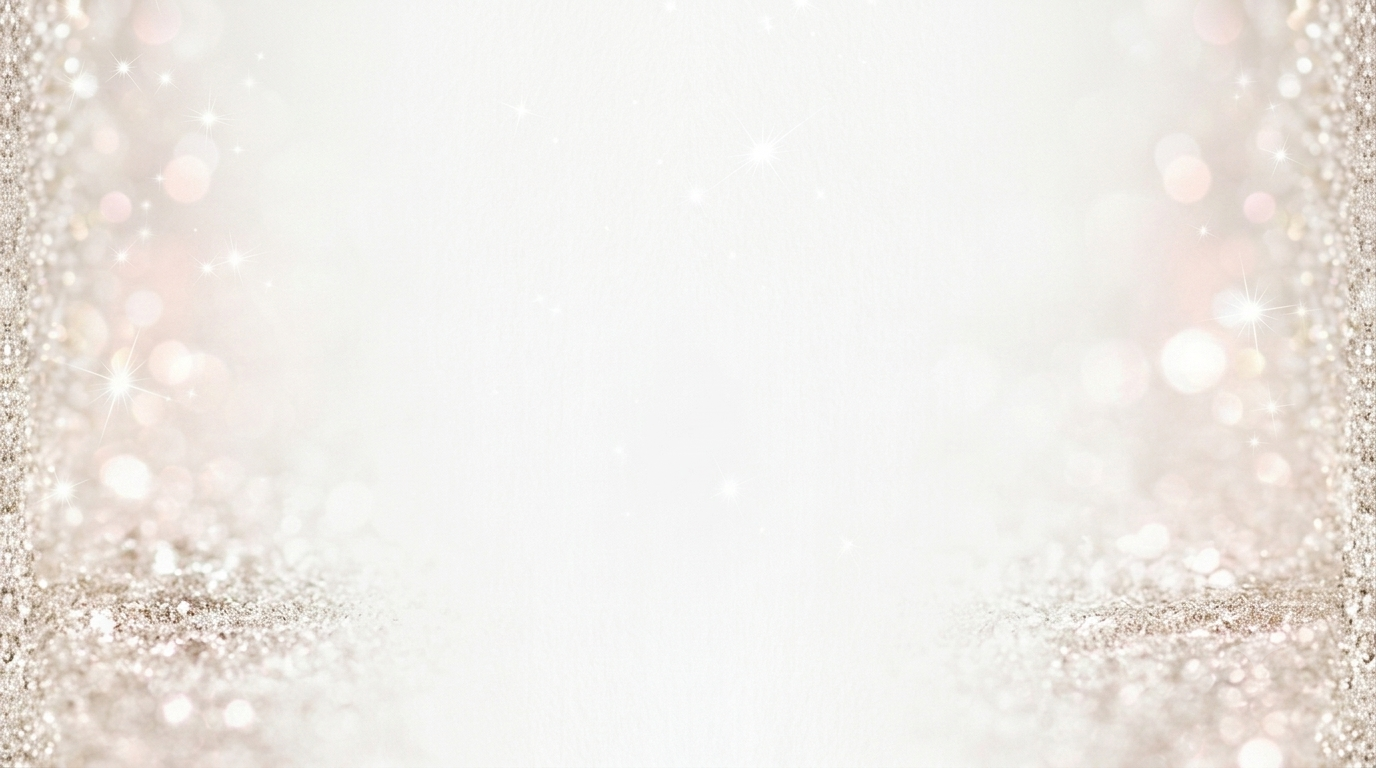
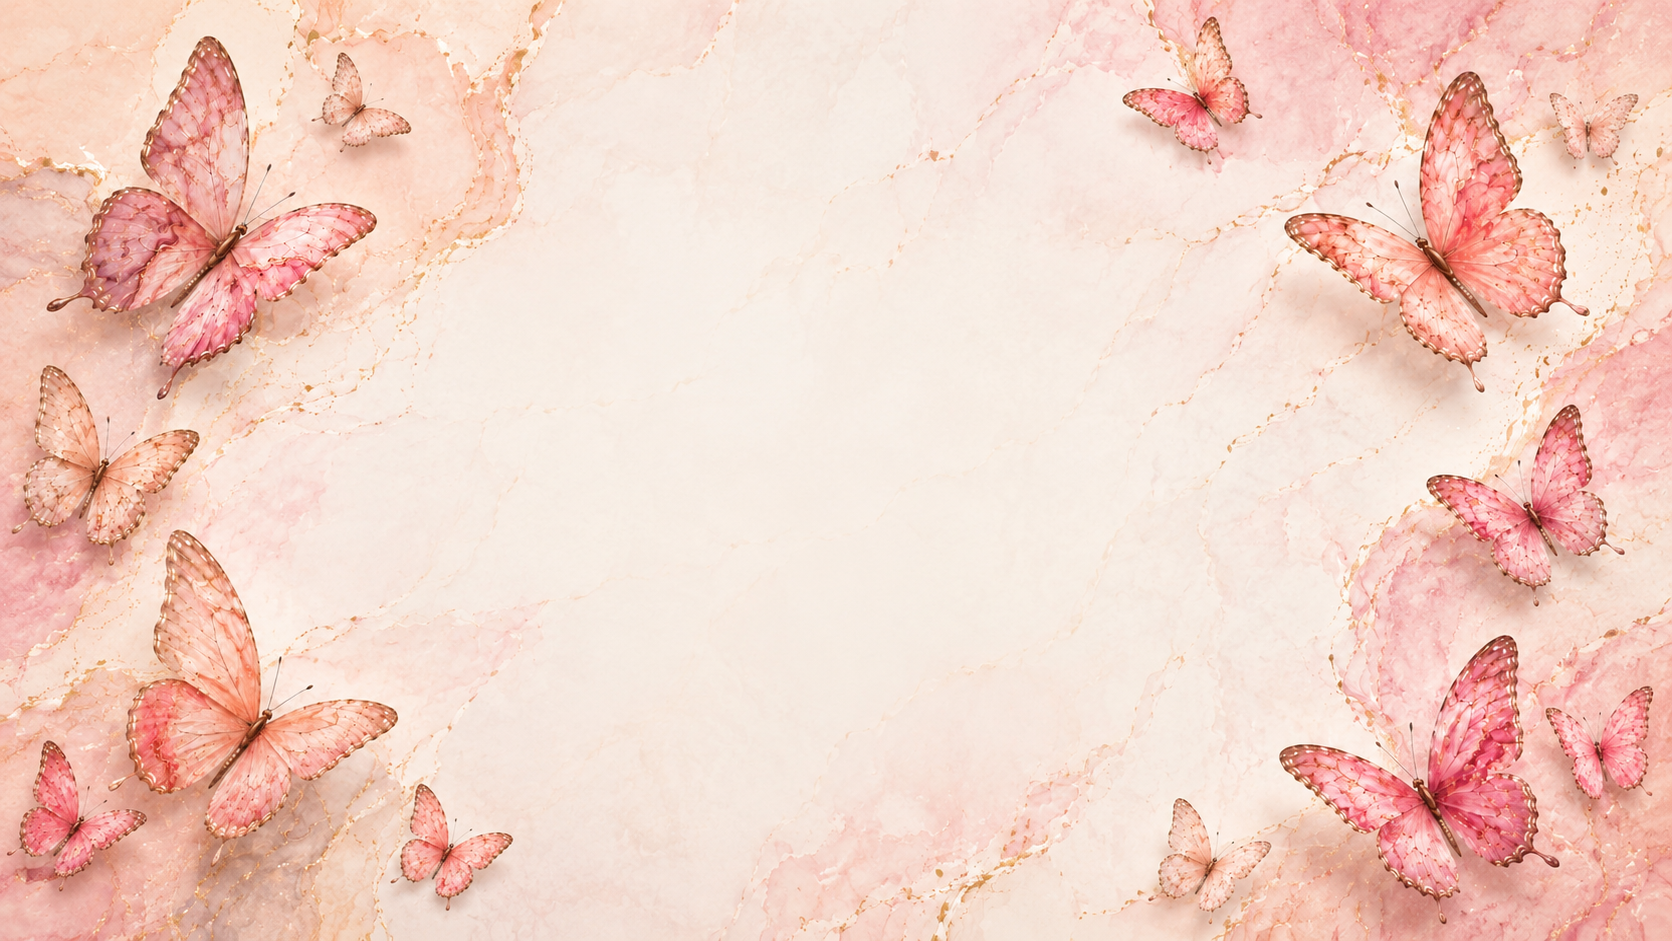
actualizacion

diff --git a/css/style.css b/css/style.css
@@ -31,7 +31,7 @@ button,a{font:inherit}
 #intro.hidden{opacity:0;visibility:hidden}
 .intro-content{text-align:center;animation:introFade 1.25s cubic-bezier(.2,.8,.2,1) both}
 .intro-subtitle{margin-bottom:12px;color:var(--plata-oscuro);letter-spacing:4px;text-transform:uppercase;font-size:.8rem}
-.intro-title{margin-bottom:30px;font-family:'Cormorant Garamond',serif;font-size:clamp(3.4rem,9vw,6rem);font-weight:600;color:var(--oscuro)}
+.intro-title{margin-bottom:30px;font-family:'Allura',cursive;font-size:clamp(4.2rem,10vw,7rem);font-weight:400;color:var(--oscuro)}
 @keyframes introFade{from{opacity:0;transform:translateY(26px) scale(.98)}to{opacity:1;transform:none}}
 
 #mainContent{opacity:0;transition:opacity .9s ease}
@@ -74,7 +74,7 @@ button,a{font:inherit}
 .hero-frame::after{right:18px;bottom:18px;border-right:1px solid;border-bottom:1px solid;border-radius:0 0 24px}
 .hero-content{position:relative;z-index:4;width:min(720px,88%);padding:70px 26px;text-align:center}
 .hero-subtitle{margin-bottom:18px;color:#868791;letter-spacing:4px;text-transform:uppercase;font-size:.86rem;animation:heroSubtitle 1s .25s both}
-.hero-name{margin-bottom:28px;font-family:'Cormorant Garamond',serif;font-size:clamp(4.3rem,7vw,6.8rem);font-weight:600;line-height:.92;color:var(--oscuro)}
+.hero-name{margin-bottom:28px;font-family:'Allura',cursive;font-size:clamp(6rem,10vw,9rem);font-weight:400;line-height:.82;color:var(--oscuro)}
 .hero-name .letter{display:inline-block;opacity:0;transform:translateY(24px) rotate(2deg);animation:letterReveal .72s cubic-bezier(.2,.8,.2,1) forwards;animation-delay:calc(.38s + var(--letter-index)*45ms)}
 .hero-name .space{width:.22em}
 .hero-divider{width:130px;height:1px;margin:0 auto 26px;background:linear-gradient(90deg,transparent,var(--plata-oscuro),transparent);animation:dividerGrow 1.1s .9s both}
@@ -94,24 +94,12 @@ button,a{font:inherit}
 .floral-left{left:0;background:radial-gradient(circle at 42px 20%,rgba(190,191,198,.8) 0 3px,transparent 4px),radial-gradient(circle at 85px 36%,rgba(243,199,210,.8) 0 3px,transparent 4px),radial-gradient(circle at 48px 58%,rgba(190,191,198,.7) 0 3px,transparent 4px)}
 .floral-right{right:0;transform:scaleX(-1);background:radial-gradient(circle at 42px 22%,rgba(190,191,198,.8) 0 3px,transparent 4px),radial-gradient(circle at 85px 42%,rgba(237,157,144,.65) 0 3px,transparent 4px),radial-gradient(circle at 48px 66%,rgba(190,191,198,.7) 0 3px,transparent 4px)}
 
-.butterfly{position:absolute;z-index:3;object-fit:contain;pointer-events:none;filter:drop-shadow(0 5px 9px rgba(118,119,127,.2))}
-.butterfly-1{top:12%;left:10%;width:50px;opacity:.72;animation:flyA 10s ease-in-out infinite}
-.butterfly-2{top:24%;right:12%;width:42px;opacity:.62;animation:flyB 13s ease-in-out -4s infinite}
-.butterfly-3{bottom:17%;left:15%;width:36px;opacity:.58;animation:flyB 12s ease-in-out -7s infinite}
-.butterfly-4{bottom:11%;right:16%;width:46px;opacity:.65;animation:flyA 14s ease-in-out -8s infinite}
-.butterfly-5{top:45%;right:4%;width:31px;opacity:.48;animation:flyC 16s ease-in-out -3s infinite}
-.butterfly-6{top:62%;left:5%;width:40px;opacity:.52;animation:flyA 17s ease-in-out -11s infinite}
-.butterfly-7{top:7%;right:31%;width:29px;opacity:.44;animation:flyC 19s ease-in-out -6s infinite}
-@keyframes flyA{0%,100%{transform:translate(0,0) rotate(-6deg)}50%{transform:translate(24px,-28px) rotate(8deg)}}
-@keyframes flyB{0%,100%{transform:translate(0,0) rotate(7deg)}50%{transform:translate(-22px,24px) rotate(-8deg)}}
-@keyframes flyC{0%,100%{transform:translateY(0) scale(.94)}50%{transform:translate(-18px,-32px) scale(1.08)}}
-
 section{position:relative;z-index:1;overflow:hidden;padding:110px 0;scroll-margin-top:16px;isolation:isolate}
 section::before{content:'';position:absolute;inset:0;z-index:-2;pointer-events:none;background:radial-gradient(circle at 12% 25%,rgba(255,255,255,.9),transparent 25%),radial-gradient(circle at 86% 68%,rgba(243,199,210,.22),transparent 28%)}
 section::after{content:'';position:absolute;inset:0;z-index:-1;opacity:.18;pointer-events:none;background-image:radial-gradient(circle,rgba(141,142,151,.45) 0 1px,transparent 1.5px);background-size:42px 42px;mask-image:linear-gradient(90deg,#000,transparent 34%,transparent 66%,#000)}
 section>.container,.footer>.container{position:relative;z-index:3}
 .section-subtitle{margin-bottom:8px;color:#8b8c95;text-transform:uppercase;letter-spacing:3px;font-size:.78rem}
-.section-title{margin-bottom:34px;font-family:'Cormorant Garamond',serif;font-size:clamp(2.7rem,5vw,3.7rem);font-weight:600;color:var(--oscuro)}
+.section-title{margin-bottom:34px;font-family:'Allura',cursive;font-size:clamp(3.5rem,6vw,5rem);font-weight:400;line-height:1;color:var(--oscuro)}
 .reveal{opacity:1}
 .motion-item{opacity:0;transition:opacity .85s ease,transform .85s cubic-bezier(.2,.8,.2,1)}
 .motion-left{transform:translateX(-70px)}.motion-right{transform:translateX(70px)}.motion-up{transform:translateY(55px) scale(.98)}
@@ -182,7 +170,7 @@ section>.container,.footer>.container{position:relative;z-index:3}
 
 .footer{position:relative;overflow:hidden;padding:84px 0;text-align:center;background:linear-gradient(145deg,#fff,#f5f5f7)}
 .footer-divider{width:90px;height:1px;margin:0 auto 28px;background:linear-gradient(90deg,transparent,var(--plata-oscuro),transparent)}
-.footer h3{margin:10px 0}.footer-date{color:#85868f;letter-spacing:3px}
+.footer h3{margin:10px 0;font-family:'Allura',cursive;font-size:3.2rem;font-weight:400}.footer-date{color:#85868f;letter-spacing:3px}
 
 .invitation-modal{width:min(520px,calc(100% - 30px));max-height:90vh;overflow:auto;padding:46px 38px 38px;border:1px solid rgba(169,170,179,.5);border-radius:28px;color:var(--texto);text-align:center;background:linear-gradient(145deg,#fff,#f5f5f7);box-shadow:0 28px 90px rgba(61,38,49,.25)}
 .invitation-modal::backdrop{background:rgba(45,34,41,.55);backdrop-filter:blur(5px)}
@@ -203,13 +191,27 @@ section>.container,.footer>.container{position:relative;z-index:3}
 .reserved-notice{margin-top:16px;padding:15px;border:1px solid rgba(237,157,144,.35);border-radius:14px;background:#fff2f2;color:#665b61;font-size:.9rem}
 @keyframes modalEnter{from{opacity:0;transform:translateY(20px) scale(.97)}to{opacity:1;transform:none}}
 
-.flying-butterfly{position:absolute;z-index:2;pointer-events:none;will-change:transform;animation:butterflyPath var(--fly-duration,20s) cubic-bezier(.42,0,.28,1) var(--fly-delay,0s) infinite alternate}
-.flying-butterfly.left{left:clamp(8px,4vw,62px)}.flying-butterfly.right{right:clamp(8px,4vw,62px)}
-.flying-butterfly img{display:block;width:var(--fly-size,42px);height:var(--fly-size,42px);object-fit:contain;opacity:var(--fly-opacity,.55);filter:drop-shadow(0 6px 10px rgba(104,105,114,.2));animation:wingFlutter 2.3s ease-in-out infinite}
-.flying-butterfly.pink img{filter:sepia(.15) saturate(1.35) hue-rotate(292deg) drop-shadow(0 6px 10px rgba(190,112,139,.2))}
-.flying-butterfly.blur img{filter:blur(1.1px) drop-shadow(0 7px 12px rgba(104,105,114,.16))}
-@keyframes butterflyPath{0%{transform:translate3d(0,18px,0) rotate(-5deg)}28%{transform:translate3d(36px,-24px,0) rotate(3deg)}58%{transform:translate3d(8px,-52px,0) rotate(-2deg)}82%{transform:translate3d(-24px,-18px,0) rotate(4deg)}100%{transform:translate3d(22px,-68px,0) rotate(6deg)}}
-@keyframes wingFlutter{0%,100%{transform:perspective(120px) rotateY(-10deg) scaleX(.91)}50%{transform:perspective(120px) rotateY(10deg) scaleX(1.02)}}
+.flying-butterfly{
+  position:absolute;left:var(--fly-left,10%);top:var(--fly-top,20%);z-index:2;pointer-events:none;
+  will-change:transform;animation:butterflyPath var(--fly-duration,22s) cubic-bezier(.42,0,.25,1) var(--fly-delay,0s) infinite alternate;
+}
+.hero>.flying-butterfly{z-index:1}
+.flying-butterfly img{
+  display:block;width:var(--fly-size,80px);height:auto;opacity:var(--fly-opacity,.7);transform-origin:50% 58%;
+  filter:drop-shadow(0 8px 12px rgba(156,82,104,.25));
+  animation:wingFlutter var(--flutter-duration,1.15s) ease-in-out var(--flutter-delay,0s) infinite;
+}
+.flying-butterfly.soft img{filter:blur(.75px) drop-shadow(0 10px 18px rgba(156,82,104,.2))}
+.flying-butterfly.mirrored img{transform:scaleX(-1);animation-name:wingFlutterMirrored}
+@keyframes butterflyPath{
+  0%{transform:translate3d(0,10px,0) rotate(var(--start-rotation,-8deg)) scale(.94)}
+  24%{transform:translate3d(var(--drift-x1,45px),var(--drift-y1,-32px),0) rotate(4deg) scale(1.01)}
+  52%{transform:translate3d(var(--drift-x2,-24px),var(--drift-y2,-72px),0) rotate(-5deg) scale(.97)}
+  76%{transform:translate3d(var(--drift-x3,58px),var(--drift-y3,-38px),0) rotate(7deg) scale(1.04)}
+  100%{transform:translate3d(var(--drift-x4,12px),var(--drift-y4,-92px),0) rotate(var(--end-rotation,5deg)) scale(.96)}
+}
+@keyframes wingFlutter{0%,100%{transform:perspective(220px) rotateY(-13deg) scaleX(.9)}50%{transform:perspective(220px) rotateY(13deg) scaleX(1.03)}}
+@keyframes wingFlutterMirrored{0%,100%{transform:perspective(220px) rotateY(13deg) scaleX(-.9)}50%{transform:perspective(220px) rotateY(-13deg) scaleX(-1.03)}}
 
 @media(max-width:900px){
   .hero-frame{min-height:82vh}.floral{width:120px;opacity:.25}
@@ -219,16 +221,15 @@ section>.container,.footer>.container{position:relative;z-index:3}
 @media(max-width:680px){
   section{padding:84px 0;scroll-margin-top:8px}
   .hero{padding:18px 0;min-height:100svh}.hero-frame{width:94%;min-height:88svh;border-radius:26px}.hero-content{padding:56px 20px}
-  .hero-name{font-size:clamp(3.25rem,15.5vw,4.6rem)}.hero-text{font-size:.95rem}.hero-button{padding:13px 24px}.floral{display:none}
-  .butterfly-1{left:5%;top:8%;width:42px}.butterfly-2{right:5%;top:20%;width:34px}.butterfly-3{left:6%;bottom:12%;width:31px}.butterfly-4{right:6%;bottom:8%;width:38px}.butterfly-5,.butterfly-7{display:none}.butterfly-6{left:4%;top:56%;width:34px}
+  .hero-name{font-size:clamp(5.1rem,25vw,7.2rem)}.hero-text{font-size:.95rem}.hero-button{padding:13px 24px}.floral{display:none}
   .motion-left,.motion-right{transform:translateY(45px)}
   .countdown{grid-template-columns:repeat(2,1fr);gap:16px}.flip-card{height:106px}.flip-card span{font-size:3.8rem}
   .quote-card,.location-card,.dress-card,.gift-card,.photo-share-card{padding:38px 22px}.quote{font-size:1.45rem}
   .gallery-carousel{padding:0 0 48px}.gallery-track{height:min(500px,112vw);border-radius:22px}.carousel-arrow{top:auto;bottom:0;width:42px;height:42px}.carousel-prev{left:calc(50% - 76px)}.carousel-next{right:calc(50% - 76px)}.carousel-dots{bottom:14px}
   .map-container iframe{height:300px}.music-toggle{right:15px;bottom:15px}
   .invitation-modal{padding:42px 20px 24px;border-radius:22px}.invitation-modal h2{font-size:2.2rem}.dress-suggestions{grid-template-columns:1fr}.dress-modal>img{max-height:44vh}
-  .flying-butterfly img{width:calc(var(--fly-size,42px)*.82);height:calc(var(--fly-size,42px)*.82)}
-  .flying-butterfly.extra{display:none}
+  .flying-butterfly img{width:calc(var(--fly-size,80px)*.72)}
+  .flying-butterfly.mobile-light{display:none}
 }
 
 @media(prefers-reduced-motion:reduce){

diff --git a/js/main.js b/js/main.js
@@ -88,7 +88,7 @@ window.setInterval(updateCountdown, 1000);
 document.querySelectorAll('main section').forEach((section, sectionIndex) => {
   const subtitle = section.querySelector('.section-subtitle');
   const title = section.querySelector('.section-title');
-  const visual = section.querySelector('.countdown, .quote-card, .gallery-carousel, .photo-share-card, .location-card, .dress-card, .gift-card, .rsvp-text');
+  const visual = section.querySelector('.countdown, .quote-card, .location-card, .dress-card, .gift-card, .rsvp-text');
 
   subtitle?.classList.add('motion-item', sectionIndex % 2 ? 'motion-right' : 'motion-left');
   title?.classList.add('motion-item', sectionIndex % 2 ? 'motion-left' : 'motion-right');
@@ -151,91 +151,52 @@ copyCbuButton?.addEventListener('click', async () => {
   }, 2200);
 });
 
-const photoUploadButton = document.getElementById('photoUploadButton');
-const configuredUploadUrl = photoUploadButton?.dataset.uploadUrl?.trim();
-if (photoUploadButton && configuredUploadUrl) {
-  photoUploadButton.href = configuredUploadUrl;
-  photoUploadButton.target = '_blank';
-  photoUploadButton.rel = 'noopener noreferrer';
-}
-photoUploadButton?.addEventListener('click', (event) => {
-  if (!configuredUploadUrl) {
-    event.preventDefault();
-    alert('El enlace para subir las fotos estará disponible la noche del evento.');
-  }
-});
-
-const carousel = document.getElementById('galleryCarousel');
-if (carousel) {
-  const slides = [...carousel.querySelectorAll('.gallery-slide')];
-  const dotsContainer = carousel.querySelector('.carousel-dots');
-  let currentSlide = 0;
-  let startX = 0;
-  let autoPlay;
-
-  slides.forEach((_, index) => {
-    const dot = document.createElement('button');
-    dot.type = 'button';
-    dot.className = `carousel-dot${index === 0 ? ' active' : ''}`;
-    dot.setAttribute('aria-label', `Ver foto ${index + 1}`);
-    dot.addEventListener('click', () => showSlide(index));
-    dotsContainer.appendChild(dot);
-  });
-
-  const dots = [...dotsContainer.querySelectorAll('.carousel-dot')];
-
-  function showSlide(index) {
-    currentSlide = (index + slides.length) % slides.length;
-    slides.forEach((slide, slideIndex) => slide.classList.toggle('active', slideIndex === currentSlide));
-    dots.forEach((dot, dotIndex) => dot.classList.toggle('active', dotIndex === currentSlide));
-  }
-
-  function restartAutoPlay() {
-    window.clearInterval(autoPlay);
-    autoPlay = window.setInterval(() => showSlide(currentSlide + 1), 4800);
-  }
-
-  carousel.querySelector('.carousel-prev')?.addEventListener('click', () => { showSlide(currentSlide - 1); restartAutoPlay(); });
-  carousel.querySelector('.carousel-next')?.addEventListener('click', () => { showSlide(currentSlide + 1); restartAutoPlay(); });
-  carousel.addEventListener('mouseenter', () => window.clearInterval(autoPlay));
-  carousel.addEventListener('mouseleave', restartAutoPlay);
-  carousel.addEventListener('touchstart', (event) => { startX = event.touches[0].clientX; }, { passive: true });
-  carousel.addEventListener('touchend', (event) => {
-    const distance = event.changedTouches[0].clientX - startX;
-    if (Math.abs(distance) > 45) showSlide(currentSlide + (distance < 0 ? 1 : -1));
-    restartAutoPlay();
-  }, { passive: true });
-  restartAutoPlay();
-}
-
 const guest = new URLSearchParams(window.location.search).get('nombre');
 if (guest) {
   const subtitle = document.querySelector('.hero-subtitle');
   if (subtitle) subtitle.textContent = `Bienvenido, ${guest}`;
 }
 
-const butterflyAssets = ['butterfly1.svg', 'butterfly2.svg', 'butterfly3.svg', 'butterfly4.svg'];
-const decoratedSections = document.querySelectorAll('main section, main footer');
+const butterflyAssets = Array.from({ length: 6 }, (_, index) => `butterfly-pink-${index + 1}.png`);
+const decoratedAreas = document.querySelectorAll('main .hero, main section, main footer');
 
-decoratedSections.forEach((section, sectionIndex) => {
-  const amount = section.matches('.gallery-section, .photo-share-section, .location-section') ? 8 : 6;
+decoratedAreas.forEach((area, areaIndex) => {
+  const amount = area.matches('.hero') ? 16 : area.matches('.footer') ? 9 : 12;
 
   for (let index = 0; index < amount; index += 1) {
     const wrapper = document.createElement('span');
     const butterfly = document.createElement('img');
-    const side = (sectionIndex + index) % 2 ? 'right' : 'left';
+    const seed = areaIndex * 37 + index * 19;
+    const size = 58 + (seed % 7) * 14;
+    const left = 2 + ((seed * 13) % 91);
+    const top = 4 + ((seed * 17) % 84);
+    const direction = (areaIndex + index) % 2 ? 1 : -1;
 
-    wrapper.className = `flying-butterfly ${side}${index > 3 ? ' extra' : ''}${index % 4 === 2 ? ' pink' : ''}${index === 5 ? ' blur' : ''}`;
-    wrapper.style.top = `${10 + ((sectionIndex * 19 + index * 23) % 76)}%`;
-    wrapper.style.setProperty('--fly-size', `${34 + ((sectionIndex + index) % 5) * 7}px`);
-    wrapper.style.setProperty('--fly-opacity', `${0.38 + ((sectionIndex + index) % 4) * 0.09}`);
-    wrapper.style.setProperty('--fly-duration', `${17 + ((sectionIndex * 2 + index) % 10)}s`);
-    wrapper.style.setProperty('--fly-delay', `${-(sectionIndex * 2 + index * 3)}s`);
+    wrapper.className = `flying-butterfly${index % 3 === 0 ? ' mirrored' : ''}${index % 7 === 0 ? ' soft' : ''}${index >= 8 ? ' mobile-light' : ''}`;
+    wrapper.style.setProperty('--fly-left', `${left}%`);
+    wrapper.style.setProperty('--fly-top', `${top}%`);
+    wrapper.style.setProperty('--fly-size', `${size}px`);
+    wrapper.style.setProperty('--fly-opacity', `${0.48 + (seed % 5) * 0.08}`);
+    wrapper.style.setProperty('--fly-duration', `${17 + (seed % 13)}s`);
+    wrapper.style.setProperty('--fly-delay', `${-(seed % 24)}s`);
+    wrapper.style.setProperty('--flutter-duration', `${0.9 + (seed % 7) * 0.11}s`);
+    wrapper.style.setProperty('--flutter-delay', `${-(seed % 5) * 0.16}s`);
+    wrapper.style.setProperty('--start-rotation', `${direction * (4 + seed % 7)}deg`);
+    wrapper.style.setProperty('--end-rotation', `${-direction * (3 + seed % 8)}deg`);
+    wrapper.style.setProperty('--drift-x1', `${direction * (35 + seed % 55)}px`);
+    wrapper.style.setProperty('--drift-y1', `${-(22 + seed % 35)}px`);
+    wrapper.style.setProperty('--drift-x2', `${-direction * (18 + seed % 44)}px`);
+    wrapper.style.setProperty('--drift-y2', `${-(48 + seed % 52)}px`);
+    wrapper.style.setProperty('--drift-x3', `${direction * (48 + seed % 68)}px`);
+    wrapper.style.setProperty('--drift-y3', `${-(20 + seed % 45)}px`);
+    wrapper.style.setProperty('--drift-x4', `${direction * (12 + seed % 62)}px`);
+    wrapper.style.setProperty('--drift-y4', `${-(72 + seed % 65)}px`);
 
-    butterfly.src = `img/butterflies/${butterflyAssets[(sectionIndex + index) % butterflyAssets.length]}`;
+    butterfly.src = `img/butterflies-realistic/${butterflyAssets[(seed + index) % butterflyAssets.length]}`;
     butterfly.alt = '';
     butterfly.setAttribute('aria-hidden', 'true');
+    butterfly.decoding = 'async';
     wrapper.appendChild(butterfly);
-    section.appendChild(wrapper);
+    area.appendChild(wrapper);
   }
 });

diff --git a/index.html b/index.html
@@ -3,14 +3,14 @@
 <head>
   <meta charset="UTF-8">
   <meta name="viewport" content="width=device-width, initial-scale=1.0">
-  <title>Isabella Pucarelli | Mis 15 Años</title>
+  <title>Isabella | Mis 15 Años</title>
 
   <link rel="preconnect" href="https://fonts.googleapis.com">
   <link rel="preconnect" href="https://fonts.gstatic.com" crossorigin>
-  <link href="https://fonts.googleapis.com/css2?family=Cormorant+Garamond:wght@400;500;600;700&family=Poppins:wght@300;400;500;600&display=swap" rel="stylesheet">
+  <link href="https://fonts.googleapis.com/css2?family=Allura&family=Cormorant+Garamond:wght@400;500;600;700&family=Poppins:wght@300;400;500;600&display=swap" rel="stylesheet">
 
   <link rel="stylesheet" href="css/style.css">
-  <link rel="icon" href="img/butterflies/butterfly1.svg" type="image/svg+xml">
+  <link rel="icon" href="img/butterflies-realistic/butterfly-pink-2.png" type="image/png">
 </head>
 <body>
   <div id="intro">
@@ -36,21 +36,13 @@
     <header class="hero">
       <div class="hero-overlay"></div>
 
-      <img src="img/butterflies/butterfly1.svg" class="butterfly butterfly-1" alt="">
-      <img src="img/butterflies/butterfly2.svg" class="butterfly butterfly-2" alt="">
-      <img src="img/butterflies/butterfly3.svg" class="butterfly butterfly-3" alt="">
-      <img src="img/butterflies/butterfly2.svg" class="butterfly butterfly-4" alt="">
-      <img src="img/butterflies/butterfly1.svg" class="butterfly butterfly-5" alt="">
-      <img src="img/butterflies/butterfly4.svg" class="butterfly butterfly-6" alt="">
-      <img src="img/butterflies/butterfly3.svg" class="butterfly butterfly-7" alt="">
-
       <div class="hero-frame">
         <div class="floral floral-left" aria-hidden="true"></div>
         <div class="floral floral-right" aria-hidden="true"></div>
 
         <div class="hero-content">
           <p class="hero-subtitle">19 de septiembre de 2026</p>
-          <h1 class="hero-name" data-animate-letters>Isabella Pucarelli</h1>
+          <h1 class="hero-name" data-animate-letters>Isabella</h1>
           <div class="hero-divider"></div>
           <p class="hero-text">
             Hay momentos inolvidables que se atesoran para siempre.<br>
@@ -94,37 +86,6 @@
             “Que esta noche esté llena de sueños cumplidos,
             sonrisas sinceras y recuerdos que duren para siempre.”
           </p>
-        </div>
-      </div>
-    </section>
-
-    <section class="gallery-section reveal">
-      <div class="container">
-        <p class="section-subtitle">Mis recuerdos</p>
-        <h2 class="section-title">Galería</h2>
-
-        <div class="gallery-carousel" id="galleryCarousel" aria-label="Galería de fotos">
-          <div class="gallery-track">
-            <figure class="gallery-slide active"><img src="img/foto1.jpg" alt="Recuerdo de Isabella 1"></figure>
-            <figure class="gallery-slide"><img src="img/foto2.jpg" alt="Recuerdo de Isabella 2"></figure>
-            <figure class="gallery-slide"><img src="img/foto3.jpg" alt="Recuerdo de Isabella 3"></figure>
-          </div>
-          <button class="carousel-arrow carousel-prev" type="button" aria-label="Foto anterior">‹</button>
-          <button class="carousel-arrow carousel-next" type="button" aria-label="Foto siguiente">›</button>
-          <div class="carousel-dots" aria-label="Seleccionar fotografía"></div>
-        </div>
-      </div>
-    </section>
-
-    <section class="photo-share-section reveal">
-      <div class="container">
-        <div class="photo-share-card">
-          <div class="photo-share-icon" aria-hidden="true">▣</div>
-          <p class="section-subtitle">Guardemos cada momento</p>
-          <h2 class="section-title">Compartí tus fotos</h2>
-          <p>¿Sacaste una foto o un video durante la fiesta? Ayudame a guardar todos los recuerdos de esta noche.</p>
-          <a class="btn-salmon" id="photoUploadButton" href="#" data-upload-url="">Subir fotos de la fiesta</a>
-          <small>El enlace estará disponible la noche del evento.</small>
         </div>
       </div>
     </section>
@@ -209,7 +170,7 @@
       <div class="container">
         <div class="footer-divider"></div>
         <p>Con mucho amor</p>
-        <h3>Isabella Pucarelli</h3>
+        <h3>Isabella</h3>
         <p class="footer-date">19 • 09 • 2026</p>
       </div>
     </footer>
@@ -223,13 +184,10 @@
     <h2 id="bankModalTitle">Mi regalo</h2>
     <p class="modal-description">Gracias por acompañarme en este momento tan especial.</p>
 
-    <div class="bank-data">
-      <span>Alias</span>
-      <strong>ISABELLA.PUCARELLI</strong>
-    </div>
+    
     <div class="bank-data">
       <span>CBU</span>
-      <strong id="cbuValue">0000000000000000000000</strong>
+      <strong id="cbuValue">4530000800012439150252</strong>
     </div>
 
     <button class="btn-gold copy-cbu-button" id="copyCbuButton" type="button">Copiar CBU</button>
